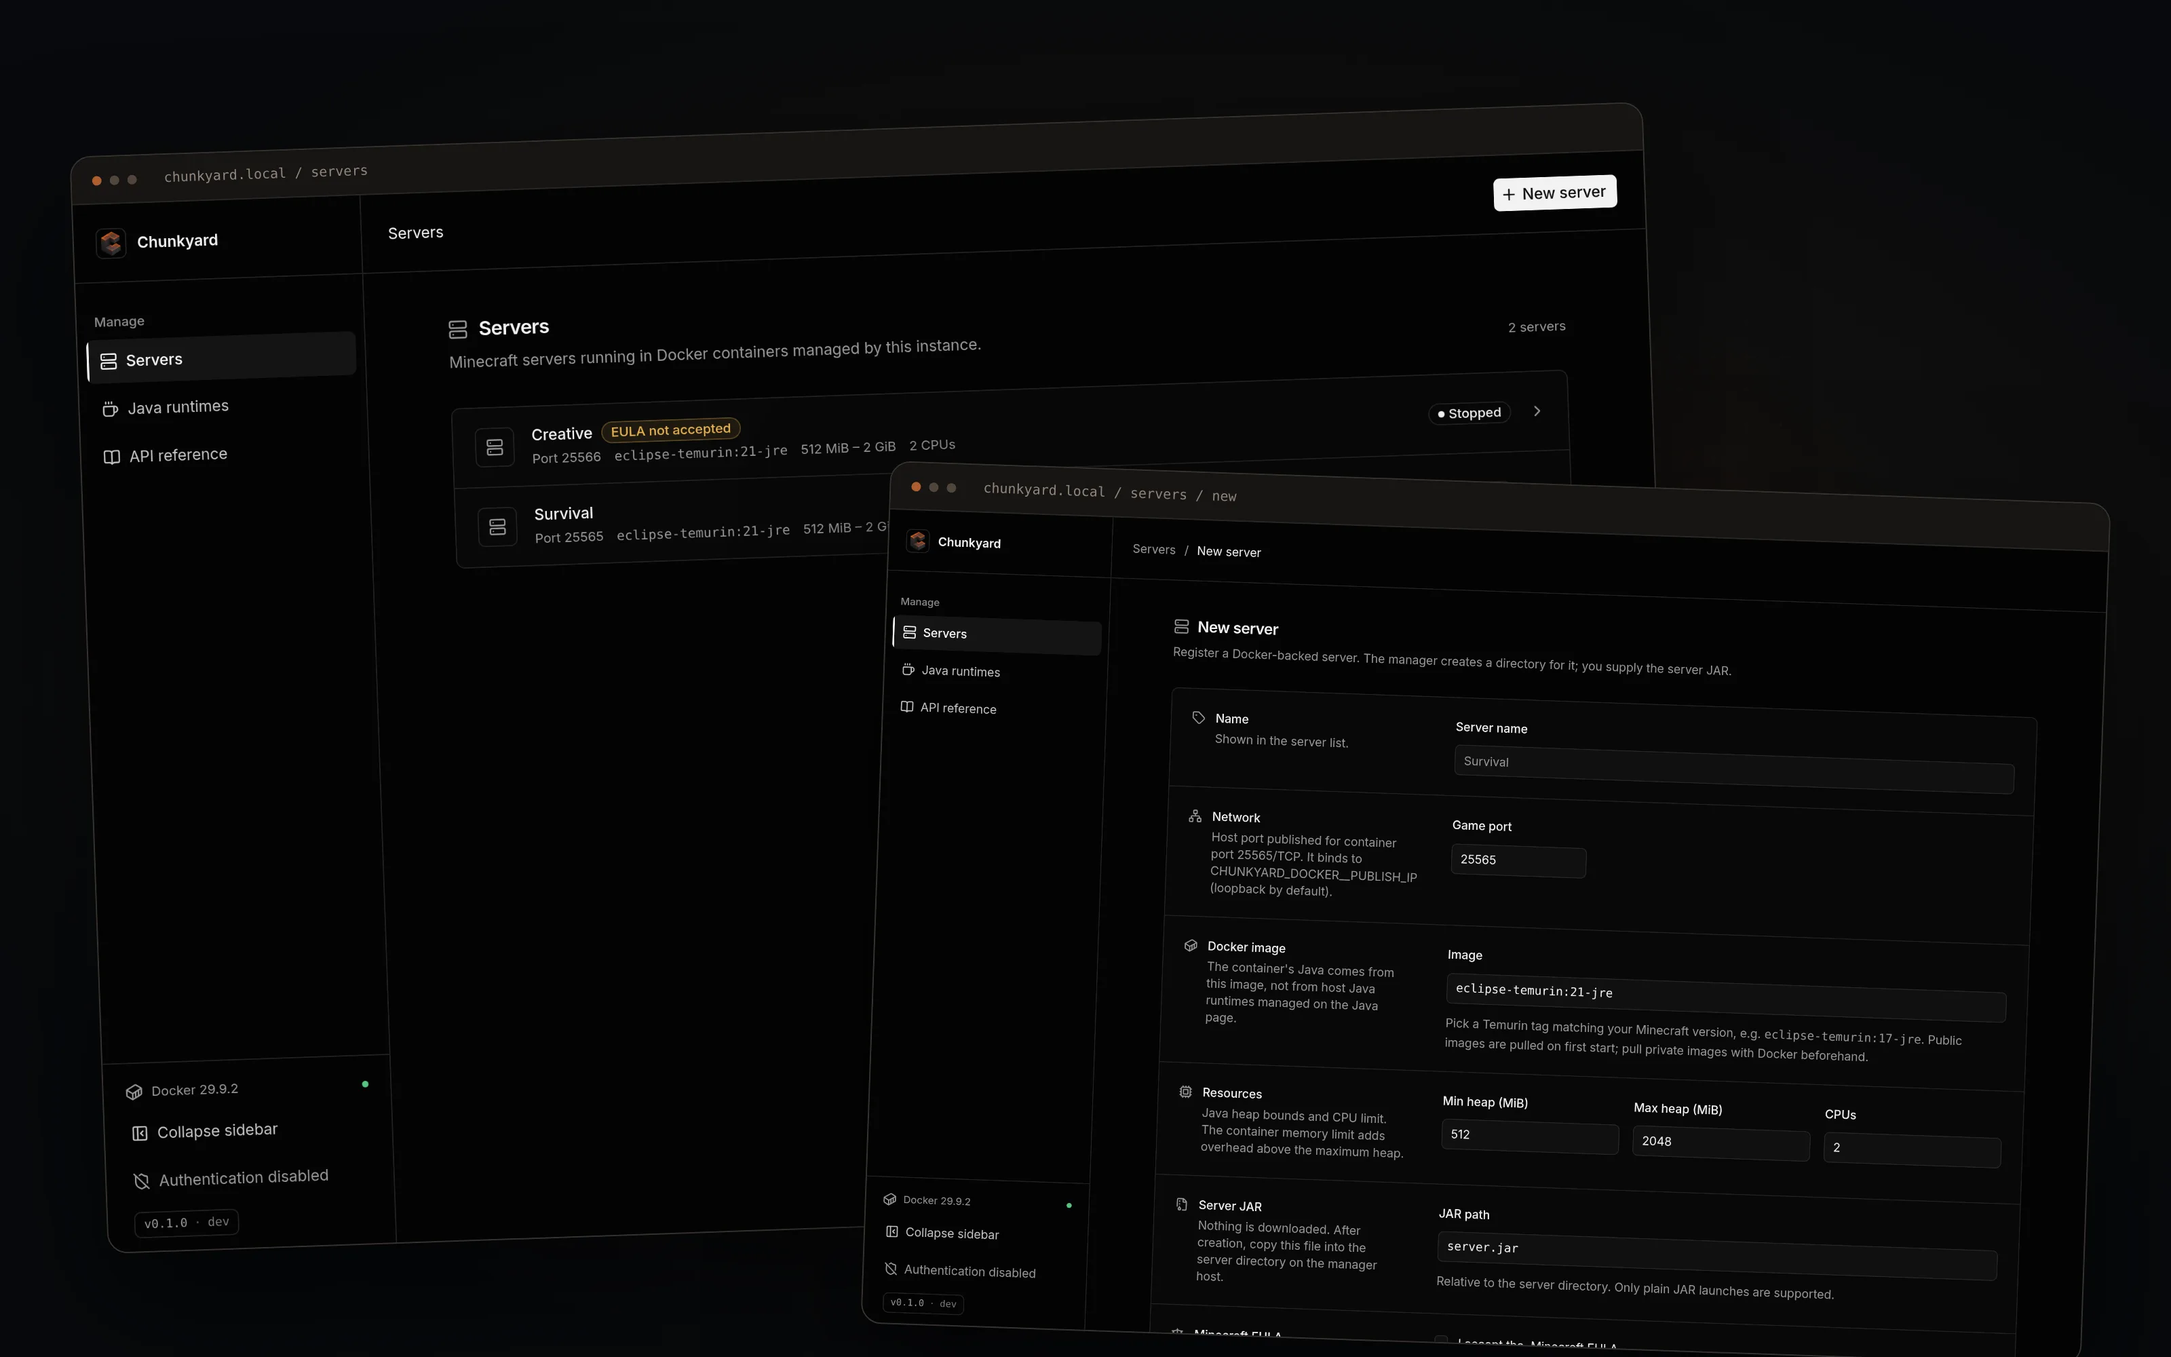
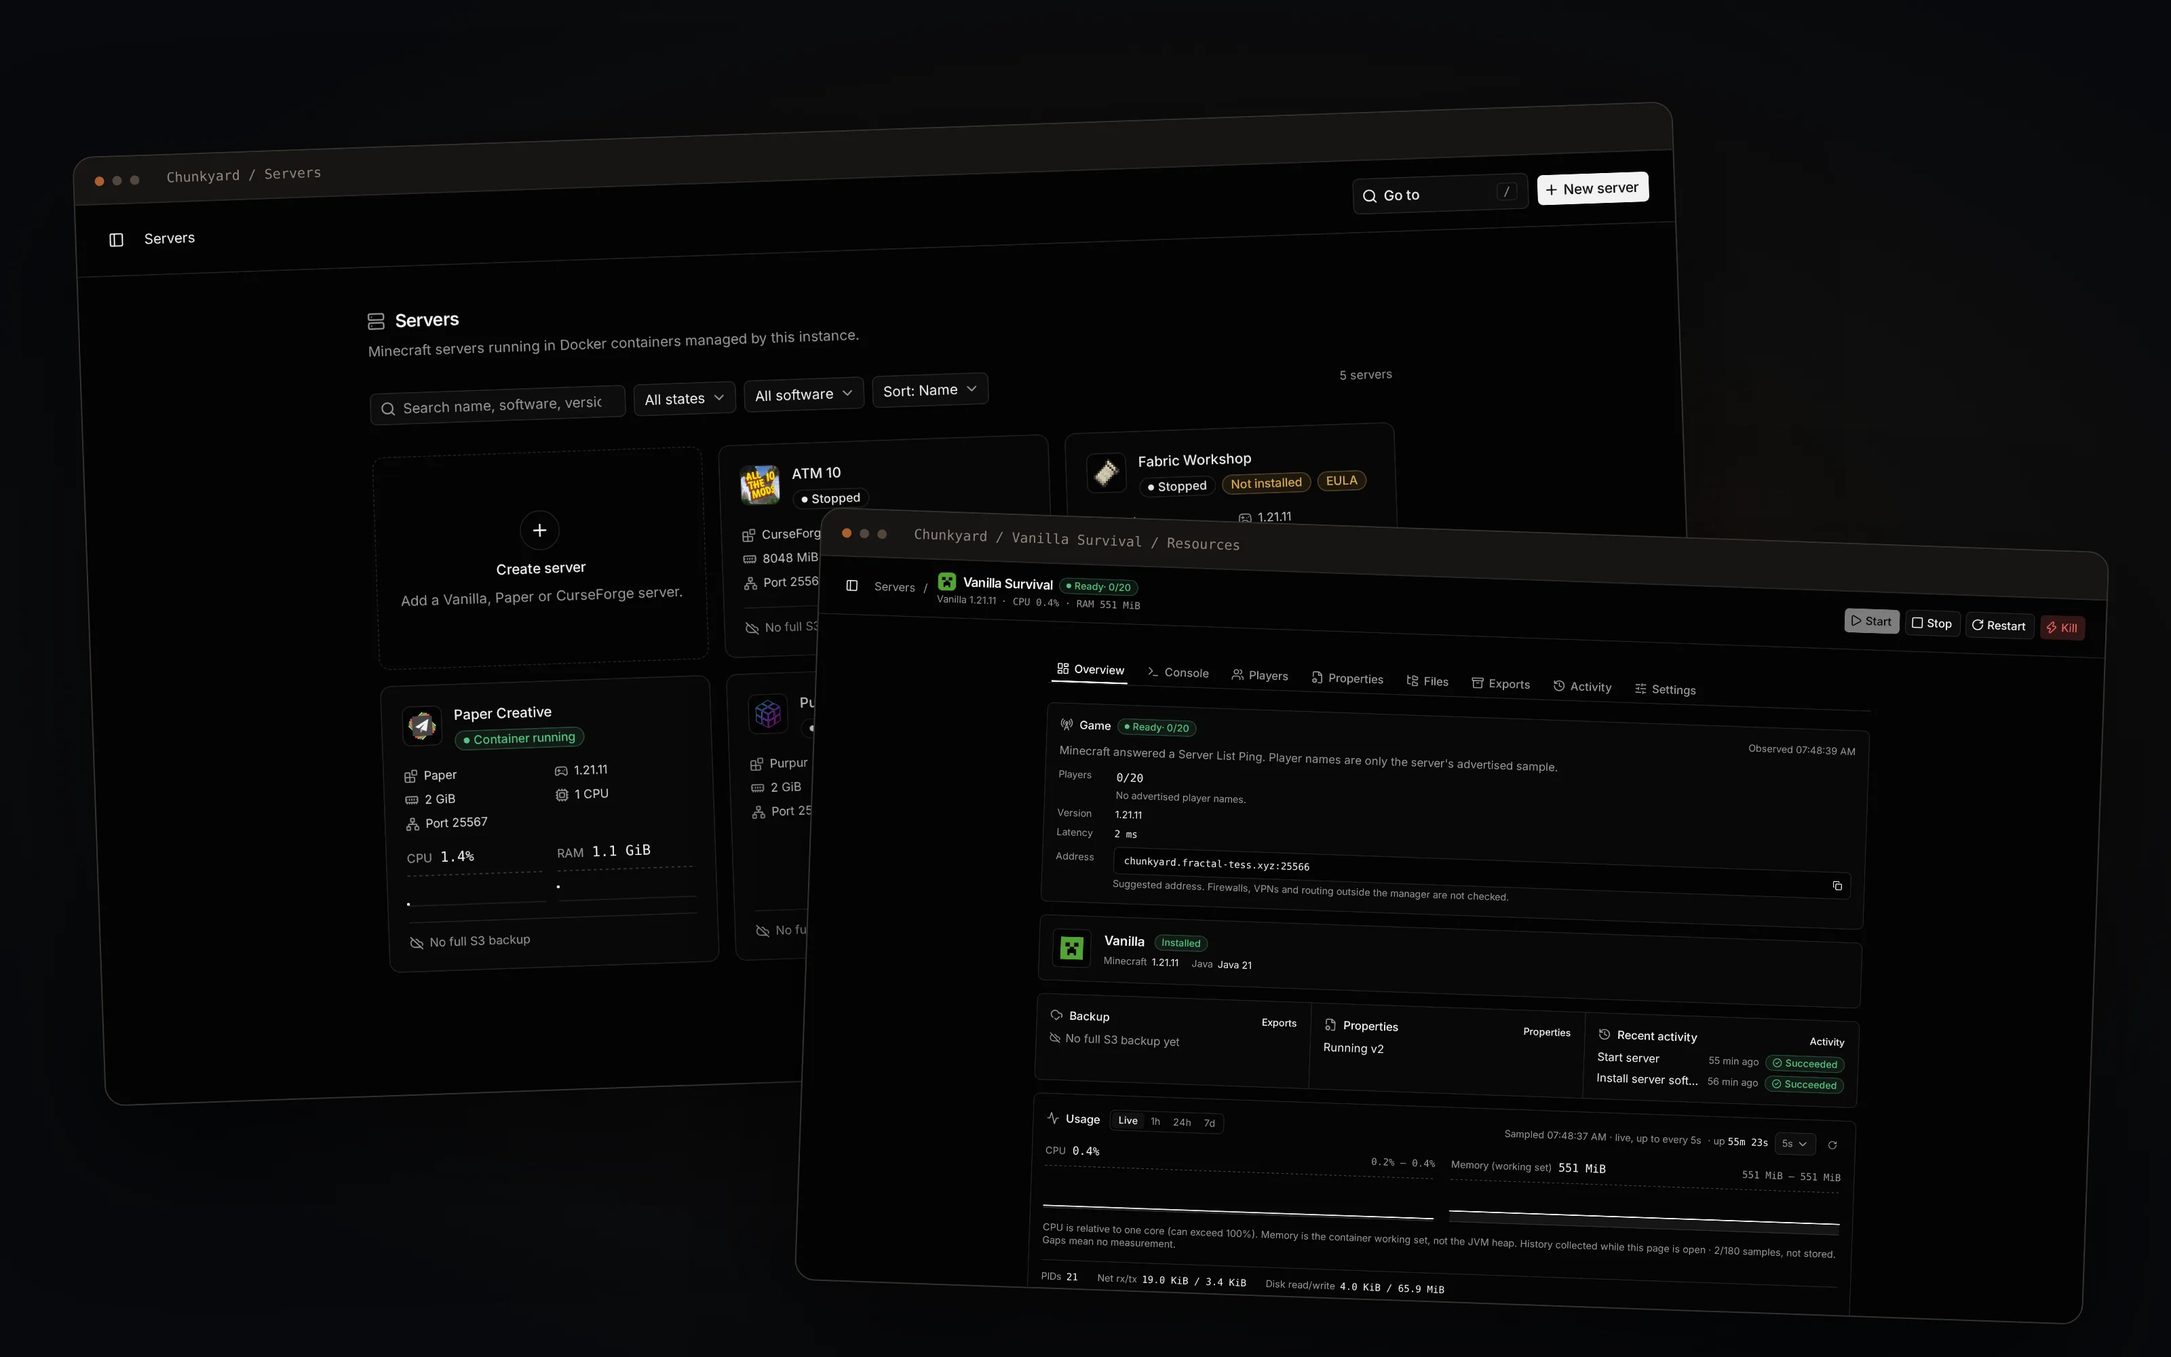
Refresh README with deployed app screenshots and current features

diff --git a/assets/screenshots/source/style.css b/assets/screenshots/source/style.css
@@ -2,10 +2,14 @@
 body { margin: 0; width: 1600px; height: 1000px; overflow: hidden; background: radial-gradient(ellipse at 55% 48%, #2b1b10 0, #100f0e 42%, #07090c 78%); }
 .grid { position: absolute; inset: 0; opacity: .25; background-image: radial-gradient(#6c5141 1px, transparent 1px); background-size: 25px 25px; mask-image: radial-gradient(ellipse, black, transparent 75%); }
 .window { position: absolute; overflow: hidden; border: 1px solid #38322e; border-radius: 15px; background: #060606; box-shadow: 0 35px 100px #000a; }
-.back { width: 1160px; top: 95px; left: 65px; transform: rotate(-2deg); }
-.front { width: 900px; top: 355px; right: 55px; transform: rotate(2deg); }
+.back { width: 1180px; top: 95px; left: 65px; transform: rotate(-2deg); }
+.front { width: 950px; top: 390px; right: 55px; transform: rotate(2deg); }
 .bar { height: 35px; display: flex; align-items: center; gap: 6px; padding: 0 15px; border-bottom: 1px solid #292725; background: #161513; }
 i { width: 7px; height: 7px; border-radius: 50%; background: #52463d; }
 i:first-child { background: #ad5e30; }
 span { padding-left: 14px; font: 10px monospace; color: #91857b; }
 img { width: 100%; display: block; }
+.caption { position: absolute; left: 80px; top: 42px; color: #f0ece8; font-family: Inter, Arial, sans-serif; }
+.caption p { margin: 0 0 10px; color: #d58b57; font-size: 12px; font-weight: 600; letter-spacing: .18em; text-transform: uppercase; }
+.caption h1 { margin: 0; font-size: 30px; line-height: 1.2; font-weight: 500; letter-spacing: -.035em; }
+.gallery-window { width: 1440px; left: 80px; top: 140px; }

diff --git a/assets/screenshots/source/hero.html b/assets/screenshots/source/hero.html
@@ -1,3 +1,3 @@
 <!doctype html>
 <html lang="en"><head><meta charset="utf-8"><link rel="stylesheet" href="style.css"><title>Chunkyard README cover</title></head>
-<body><div class="grid"></div><div class="window back"><div class="bar"><i></i><i></i><i></i><span>chunkyard.local / servers</span></div><img src="shots/servers.png" alt="Chunkyard server inventory"></div><div class="window front"><div class="bar"><i></i><i></i><i></i><span>chunkyard.local / servers / new</span></div><img src="shots/create.png" alt="Create a Docker Minecraft server"></div></body></html>
+<body><div class="grid"></div><div class="window back"><div class="bar"><i></i><i></i><i></i><span>Chunkyard / Servers</span></div><img src="shots/live-servers.png" alt="Five real Minecraft server instances with their software logos and runtime states"></div><div class="window front"><div class="bar"><i></i><i></i><i></i><span>Chunkyard / Vanilla Survival / Resources</span></div><img src="shots/live-resources.png" alt="Live resource measurements for the running Vanilla server"></div></body></html>

diff --git a/assets/screenshots/source/storage.html b/assets/screenshots/source/storage.html
@@ -1,0 +1,3 @@
+<!doctype html>
+<html lang="en"><head><meta charset="utf-8"><link rel="stylesheet" href="style.css"><title>Chunkyard — Backup storage</title></head>
+<body><div class="grid"></div><div class="caption"><p>Backup storage</p><h1>Connect S3-compatible storage</h1></div><div class="window gallery-window"><div class="bar"><i></i><i></i><i></i><span>Chunkyard / Storage & exports / S3 storage</span></div><img src="shots/live-storage.png" alt="Configured S3 storage with credentials visually masked"></div></body></html>

diff --git a/assets/screenshots/source/properties.html b/assets/screenshots/source/properties.html
@@ -1,0 +1,3 @@
+<!doctype html>
+<html lang="en"><head><meta charset="utf-8"><link rel="stylesheet" href="style.css"><title>Chunkyard — Configuration</title></head>
+<body><div class="grid"></div><div class="caption"><p>Configuration</p><h1>Save properties with version history</h1></div><div class="window gallery-window"><div class="bar"><i></i><i></i><i></i><span>Chunkyard / Paper Creative / Properties</span></div><img src="shots/live-properties.png" alt="Minecraft server properties with saved versions"></div></body></html>

diff --git a/assets/screenshots/source/console.html b/assets/screenshots/source/console.html
@@ -1,0 +1,3 @@
+<!doctype html>
+<html lang="en"><head><meta charset="utf-8"><link rel="stylesheet" href="style.css"><title>Chunkyard — Server control</title></head>
+<body><div class="grid"></div><div class="caption"><p>Server control</p><h1>Follow the console as Minecraft runs</h1></div><div class="window gallery-window"><div class="bar"><i></i><i></i><i></i><span>Chunkyard / Paper Creative / Console</span></div><img src="shots/live-console.png" alt="Live Paper console output and command controls"></div></body></html>

diff --git a/assets/screenshots/source/integrations.html b/assets/screenshots/source/integrations.html
@@ -1,0 +1,3 @@
+<!doctype html>
+<html lang="en"><head><meta charset="utf-8"><link rel="stylesheet" href="style.css"><title>Chunkyard — Integrations</title></head>
+<body><div class="grid"></div><div class="caption"><p>Integrations</p><h1>Connect scripts and MCP clients</h1></div><div class="window gallery-window"><div class="bar"><i></i><i></i><i></i><span>Chunkyard / Integrations / MCP</span></div><img src="shots/live-integrations.png" alt="MCP endpoint and client connection instructions"></div></body></html>

diff --git a/assets/screenshots/source/files.html b/assets/screenshots/source/files.html
@@ -1,0 +1,3 @@
+<!doctype html>
+<html lang="en"><head><meta charset="utf-8"><link rel="stylesheet" href="style.css"><title>Chunkyard — Files</title></head>
+<body><div class="grid"></div><div class="caption"><p>Files</p><h1>Browse the files behind your server</h1></div><div class="window gallery-window"><div class="bar"><i></i><i></i><i></i><span>Chunkyard / Paper Creative / Files</span></div><img src="shots/live-files.png" alt="Real Paper server files and the file browser"></div></body></html>

diff --git a/assets/screenshots/source/settings.html b/assets/screenshots/source/settings.html
@@ -1,0 +1,3 @@
+<!doctype html>
+<html lang="en"><head><meta charset="utf-8"><link rel="stylesheet" href="style.css"><title>Chunkyard — Preferences</title></head>
+<body><div class="grid"></div><div class="caption"><p>Preferences</p><h1>Set up your everyday workflow</h1></div><div class="window gallery-window"><div class="bar"><i></i><i></i><i></i><span>Chunkyard / Settings</span></div><img src="shots/live-settings.png" alt="Browser preferences and manager information"></div></body></html>

diff --git a/README.md b/README.md
@@ -10,20 +10,20 @@
 <h1 align="center">Chunkyard</h1>
 
 <p align="center">
-  <img src="assets/screenshots/hero.webp" alt="Chunkyard's server inventory and server creation form in its dark web interface" width="100%" />
+  <img src="assets/screenshots/hero.webp" alt="Chunkyard's server inventory with software logos, alongside live resource measurements for a running Minecraft server" width="100%" />
 </p>
 
 <p align="center">Your Minecraft servers, in one yard.<br /><a href="https://chunkyard.fractal-tess.xyz">Open Chunkyard</a></p>
 
-Chunkyard is a self-hosted Minecraft Java Edition server manager for one owner. A Rust service and Svelte web UI let you manage Docker server instances from one address, with persistent storage and no separate Node service to run.
+Chunkyard is a self-hosted Minecraft Java Edition server manager for one owner. Install server software, follow the console, change configuration, and keep backups from a single web interface. Each game server runs in its own Docker container, with a compatible Java image and persistent files.
 
-- **Control** servers with start, stop, restart, and force kill. Stream the console, send commands, and watch CPU, memory and uptime with adjustable refresh intervals.
-- **Run** each server with a compatible Java version supplied by its Docker image; no host Java installation is required.
-- **Keep** a simple owner login, or disable authentication explicitly for a trusted local environment.
+- **Run** Vanilla, Paper, Purpur, Fabric, Forge, NeoForge, or a supported CurseForge server pack. Chunkyard downloads and verifies the files, records the installed version, and selects a compatible Java image. Custom JARs and launch profiles are available too.
+- **Manage** servers with live console output, commands, Minecraft readiness checks, and resource charts. Edit files, save versioned `server.properties` changes, and adjust memory, CPU, ports, or launch settings.
+- **Keep** worlds and instances in local or S3-compatible backups. Restore a full backup, or remove a stopped server's local files after verifying its full S3 restore point.
 
-Choose Vanilla, Paper or a supported CurseForge server pack; Chunkyard downloads and verifies the files and selects a compatible Java image. Browse and edit files, or autosave versioned `server.properties` changes while the game runs and restart when ready to apply them. Export worlds or full instances to local storage or S3-compatible services such as RustFS. A verified full S3 backup lets you remove local files while keeping the server listed, then restore it when you want to play again. See the [backup and restore contract](docs/exports-contract.md) for limits.
+Owner login is enabled by default. Revocable API keys let scripts and MCP clients use the same server controls. The Rust service serves the built Svelte UI directly; production does not need a separate Node service. See [integrations](docs/integrations-contract.md) and [backup and restore](docs/exports-contract.md) for their contracts and limits.
 
-This project is in active development. Custom JARs remain an advanced option. A running container does not establish Minecraft readiness.
+The project is in active development. Chunkyard distinguishes a running container from a Minecraft server that is ready to accept connections.
 
 ## Run it
 
@@ -37,8 +37,27 @@ Follow the [Docker setup](docs/docker.md#run-the-manager-in-docker) to mount per
 
 For a source checkout, see [production UI hosting](docs/frontend.md#production-hosting) and [backend development](docs/backend.md). The executable is `mcm`; configuration uses `CHUNKYARD_*` environment variables.
 
+## A closer look
+
+Captured from the deployed app with Vanilla and Paper servers running.
+
+<table>
+  <tr>
+    <td width="50%"><a href="assets/screenshots/console.webp"><img src="assets/screenshots/console.webp" alt="Live Paper console output with server controls and a command field" /></a></td>
+    <td width="50%"><a href="assets/screenshots/properties.webp"><img src="assets/screenshots/properties.webp" alt="Minecraft properties editor with version history and saved configuration" /></a></td>
+  </tr>
+  <tr>
+    <td><a href="assets/screenshots/files.webp"><img src="assets/screenshots/files.webp" alt="Paper server files in Chunkyard's file browser" /></a></td>
+    <td><a href="assets/screenshots/storage.webp"><img src="assets/screenshots/storage.webp" alt="S3-compatible backup storage settings with credentials masked" /></a></td>
+  </tr>
+  <tr>
+    <td><a href="assets/screenshots/integrations.webp"><img src="assets/screenshots/integrations.webp" alt="MCP connection details in the Integrations page" /></a></td>
+    <td><a href="assets/screenshots/settings.webp"><img src="assets/screenshots/settings.webp" alt="Settings for browser-wide resource refresh and server sorting" /></a></td>
+  </tr>
+</table>
+
 ## Documentation
 
-[Web UI](docs/frontend.md) · [Docker runtime and deployment](docs/docker.md) · [REST API](docs/http-api.md) · [Monitoring](docs/monitoring.md) · [Oracle trial](docs/oracle-trial.md) · [Backend development](docs/backend.md) · [Contributing](CONTRIBUTING.md) · [Changelog](CHANGELOG.md)
+[Web UI](docs/frontend.md) · [Docker runtime and deployment](docs/docker.md) · [REST API](docs/http-api.md) · [API keys and MCP](docs/integrations-contract.md) · [Backups](docs/exports-contract.md) · [Monitoring](docs/monitoring.md) · [Backend development](docs/backend.md) · [Contributing](CONTRIBUTING.md) · [Changelog](CHANGELOG.md)
 
 The [phase specifications](specs/README.md) describe the broader roadmap. The usage guides document what is implemented today.

diff --git a/CONTRIBUTING.md b/CONTRIBUTING.md
@@ -4,16 +4,19 @@ Read [AGENTS.md](AGENTS.md) for project scope, changelog fragments, and the mile
 
 ## README images
 
-The README cover is composed from real app captures using the HTML/CSS in `assets/screenshots/source/`. Raw captures live in the ignored `assets/screenshots/source/shots/` directory. The capture script creates temporary server records and does not start Minecraft containers.
+The README cover and gallery are composed from real app captures using the HTML/CSS in `assets/screenshots/source/`. Raw captures live in the ignored `assets/screenshots/source/shots/` directory. The renderer reads those captures; it does not log in, create records, or change a running server.
 
-After building the frontend and `cargo build -p chunkyard-server --locked`:
+Capture the deployed app at 1600 × 900 CSS pixels with a device scale factor of two. Use real, populated views: the inventory, live resources, console, properties, files, MCP instructions, S3 storage, and settings. Collapse the sidebar to keep account details out of the images. Never capture passwords, API tokens, access keys, or private configuration. Save captures as `live-servers.png`, `live-resources.png`, `live-console.png`, `live-properties.png`, `live-files.png`, `live-integrations.png`, `live-storage.png`, and `live-settings.png` under `source/shots/`.
+
+Render the seven composed images with Chromium and `cwebp` available:
 
 ```sh
 node scripts/capture-readme.mjs
-cwebp -q 82 assets/screenshots/source/shots/hero.png -o assets/screenshots/hero.webp
 ```
 
-Install Playwright Chromium with `pnpm --dir web exec playwright install chromium`, or set `PLAYWRIGHT_CHROMIUM_EXECUTABLE_PATH` to an installed Chrome executable. The cover is rendered at 1600 × 1000 CSS pixels with a scale factor of two. Keep screenshots consistent with implemented behavior.
+Install Playwright Chromium with `pnpm --dir web exec playwright install chromium`, or set `PLAYWRIGHT_CHROMIUM_EXECUTABLE_PATH` to an installed Chrome executable. Each composition is rendered at 1600 × 1000 CSS pixels with a scale factor of two, then exported as WebP at quality 82. On NixOS, `nix shell nixpkgs#chromium nixpkgs#libwebp` supplies the rendering tools without changing the system configuration. Keep screenshots consistent with implemented behavior; raw captures are not committed.
+
+Set `CHUNKYARD_README_PNG_DIR` to retain the composed PNGs as well. Otherwise, the renderer removes its temporary PNG output after exporting WebP. Account identifiers may be masked for publication; never replace actual application state with invented content.
 
 The generated logo is in `assets/logo.png`, with the app copy at `web/static/logo.png`. Its generation prompt and source are recorded in [assets/brand/logo.md](assets/brand/logo.md).
 

diff --git a/docs/frontend.md b/docs/frontend.md
@@ -115,6 +115,10 @@ The server list searches names/software/versions/ports, filters by state/softwar
 
 Management tabs stay synchronized with URL deep links and palette navigation. Clicking a tab updates its URL through same-server shallow routing, keeping editors mounted and preserving unsaved edits.
 
+The Settings page provides browser-wide live refresh and default server sorting preferences, with read-only account and manager information. These preferences are local to the browser; they do not change server configuration. Reload other open windows to pick up changes made there.
+
+Integrations separates API keys from MCP connection instructions (`/integrations?tab=mcp`). Storage & exports separates the server backup overview, the export catalog (`/exports?tab=exports`), and S3 configuration (`/exports?tab=storage`). Switching tabs preserves a newly created API key's one-time secret and unsaved S3 form edits; leaving the page does not save those edits.
+
 ## File destinations and drops
 
 Move and Copy offer a destination folder picker with breadcrumbs, root/up navigation, a filename and an exact destination summary. Only folders are shown; protected folders and a directory’s own subtree cannot be selected. Manual relative paths remain available. Listings load one folder at a time with cancellation and stale-response protection, and truncated results are labelled. Existing destinations are never overwritten; server errors leave the dialog open and the source intact. Rename retains its simple name input.
